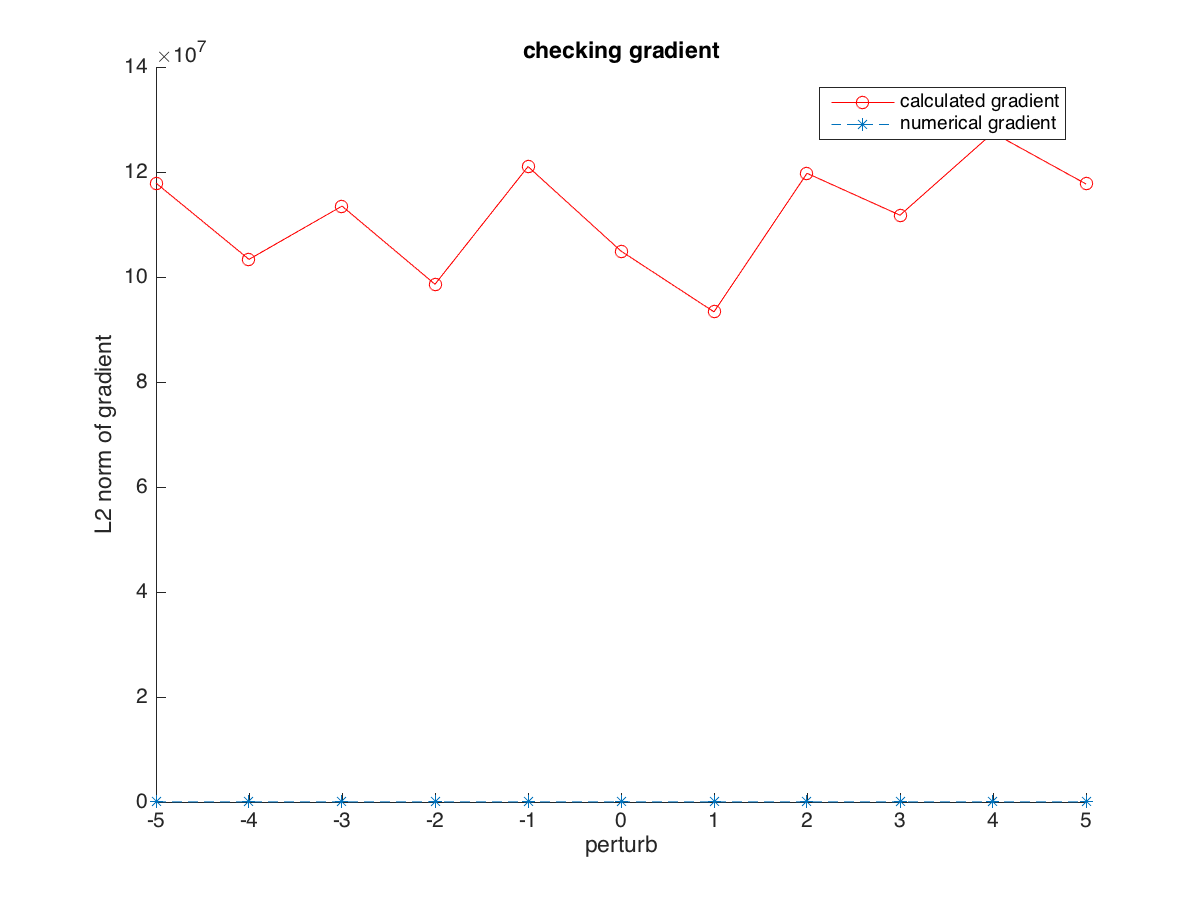
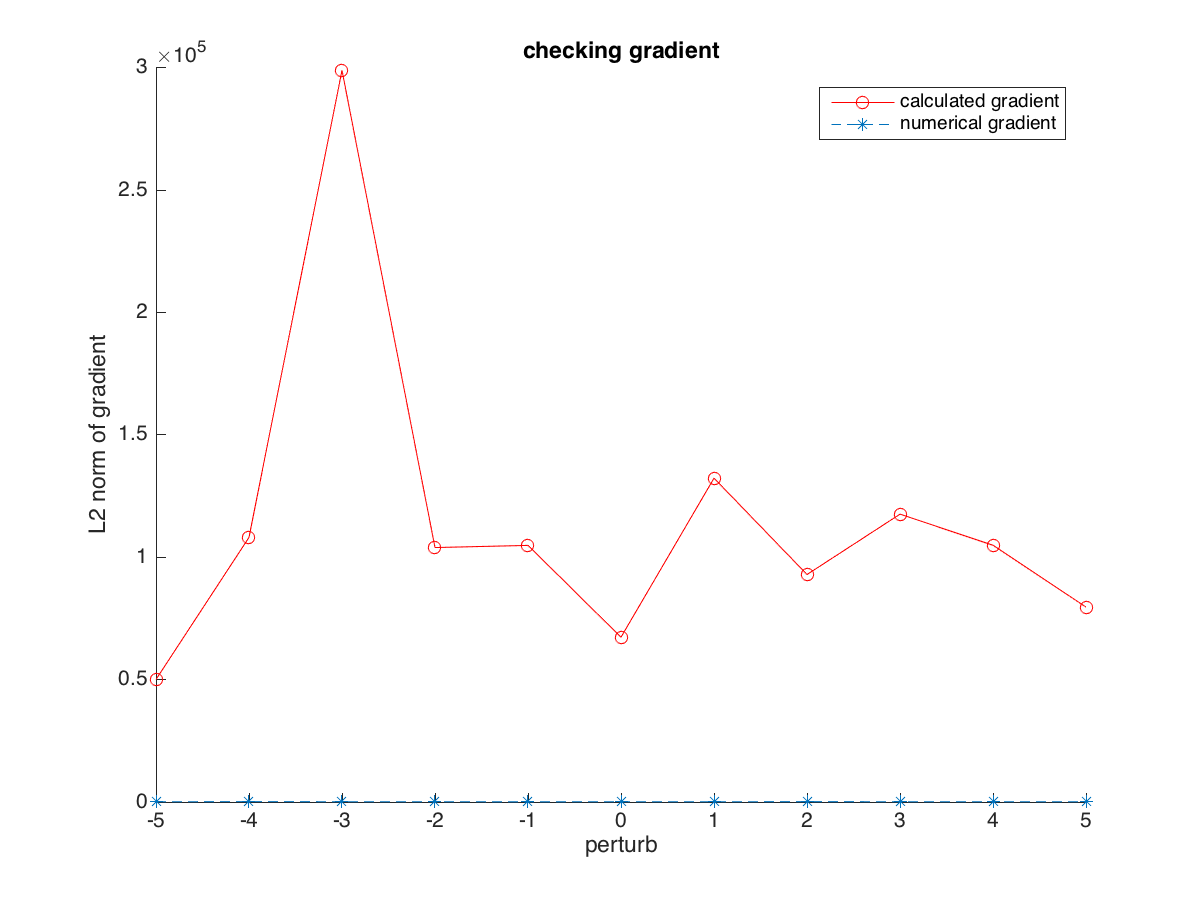
playing with svd testing error

diff --git a/SVD/svd_analysis.m b/SVD/svd_analysis.m
@@ -1,32 +1,75 @@
 %% SVD analysis
 close all; clear all;
+X = importdata('nonnormalized_collected_reviews.csv',',');
 
-X = importdata('small_collected_reviews.csv',',');
+% ---- SET PARAMETERS HERE ---- %
+K = 75;
+params.max_iterations = 1200;
+params.threshold = 1e-4;
+params.step_size = 5e-3;
+params.batch_size = 50;
 
 % strip any reviewers who didn't have any beers reviewed in this set
 to_remove = sum(~isnan(X.data),2) == 0;
-X.data(to_remove,:) = []
+X.data(to_remove,:) = [];
+fprintf('%d reviewers were removed because they lacked any reviews in this set.\n',...
+    sum(to_remove));
 
-K = 100;
-d = size(X.data,2);
-n = size(X.data,1);
+holdout_users = 10;
+Xholdout = X.data(1:holdout_users,:);
+X.data(end+holdout_users:end,:) = [];
 
-% [U,S,V] = svds(X.data,K);
+% get test points
+test_pcent = .2;
+test_mask = ~isnan(X.data) .* (rand(size(X.data,1),size(X.data,2)) < test_pcent);
 
-init_lim = 1;
+Xtrain = ~test_mask .* X.data;
+Xtrain(test_mask == 1) = NaN;
+Xtest = test_mask .* X.data;
+Xtest(~test_mask == 1) = NaN;
+
+% remove users who don't have both testing and training data
+to_remove_cumulative = (sum(~isnan(Xtrain),2) == 0) | ...
+                       (sum(~isnan(Xtest),2) == 0);
+Xtrain(to_remove_cumulative,:) = [];
+Xtest(to_remove_cumulative,:) = [];
+test_mask(to_remove_cumulative,:) = [];
+fprintf('%d more reviewers were removed b/c they did not have enough test and training reviews.\n',...
+    sum(to_remove_cumulative));
+
+% Now execute SVD
+d = size(Xtrain,2);
+n = size(Xtrain,1);
+
+init_lim = .005;
 %initialize the parameter to some small random value     
 svd.U = unifrnd( -init_lim, init_lim, [n, K]); 
 svd.V = unifrnd( -init_lim, init_lim, [d, K]);
 
-% set parameters
-params.max_iterations = 50;
-params.threshold = 1e-3;
-params.step_size = 1e-8;
-params.batch_size = 10;
+% train and optimize
+[mse, best_UV] = svd_train(Xtrain, svd, params);
 
-[mse, best_UV] = svd_train(X.data, svd, params);
+figure();
+plot(mse,'rx');
+xlabel('iteration');
+ylabel('MSE');
+title_str = sprintf('n = %d, d = %d\nEnd MSE: %.4f -- %d iterations\n|U| = %.1f, |V| = %.1f',...
+    n,d,mse(end),length(mse),norm(best_UV.U),norm(best_UV.V));
+title(title_str);
 
+print -dpng 'figures/non_normal_svd_training_gd'
 
+%% now test U and V
+Xtest(isnan(Xtest)) = 0;
+predictions = best_UV.U * best_UV.V';
+user_errors = sum( (test_mask .* (Xtest - predictions)).^2,2) ./ ...
+    sum(test_mask,2);
+test_error = mean(user_errors);
+fprintf('Testing error is %.4f\n',test_error);
+
+% --- predict for holdout data set and get error --- 
+%holdout_error = svd_predict_and_test(Xtest,best_UV.V);
+%fprintf('Holdout error is %.4f\n',holdout_error)
 
 
 

diff --git a/data_explore.py b/data_explore.py
@@ -1,15 +1,19 @@
 
 
 import pandas as pd
+import pdb
 
+
+# ---- CONSTANTS ------------------------------------------------------------ #
+TRAINING_SPLIT_DEFAULT = .2
 SCORE_THRESHOLD = 3
+
+# ---- FILE NAMES ----------------------------------------------------------- #
 INPUT_CSV = "data/beer_reviews.csv"
 OUTPUT_SIMILARITY_MATRIX = "similarity_matrix.csv"
 COLLECTED_REVIEWS_MATRIX = "collected_reviews.csv"
 TESTING_COLLECTED_REVIEWS = "testing_reviews.csv"
-TRAINING_SPLIT_DEFAULT = .2
 OUTPUT_BEER_NAME_ID_LOOKUP = "beer_name_id_lookup.csv"
-
 
 pd.set_option("display.width", 1000)
 pd.set_option('display.max_rows', 500)
@@ -94,7 +98,8 @@ class DrinkSmart:
 
     # ---- Testing / Training sets ------------------------------------------ #
     #def split_collected_reviews(self, train_percentage):
-        # should split apart 1 - train_percentage of the collected reviews matrix for testing
+        # should split apart 1 - train_percentage of the collected reviews 
+        # matrix for testing
 
 
     # ---- Normalization ---------------------------------------------------- #
@@ -260,13 +265,13 @@ if __name__ == "__main__":
     ds = DrinkSmart()
     print("---- Overall Dataset ----------")
     ds.calculate_summary_statistics()
-    ds.filter_on_beer_reviewer_counts(1000, 200)
+    ds.filter_on_beer_reviewer_counts(800, 100)
     print("---- Filtered Datset --------- ")
     ds.calculate_summary_statistics()
-    print("Normalizing all reviews...")
-    ds.normalize_all_reviews()
+    #print("Normalizing all reviews...")
+    #ds.normalize_all_reviews()
     print("pivoting reviews to get collected reviews")
-    ds.pivot_reviews(save_to_csv=True, file_name='small_collected_reviews.csv')
+    ds.pivot_reviews(column_name='review_overall',save_to_csv=True, file_name='nonnormalized_collected_reviews.csv')
 
     #print("Building beer-by-beer similarity matrix...")
     #ds.build_similarity_matrix()

diff --git a/SVD/svd_train.m b/SVD/svd_train.m
@@ -1,4 +1,4 @@
-function [mse, grad] = svd_train(X, grad_0, params)
+function [mse, svd] = svd_train(X, grad_0, params)
 %% Uses gradient descent to find optimal U and V for SVD
 % INPUTS:
 %   X - n x d
@@ -34,19 +34,23 @@ for iter = 1:params.max_iterations
         [~, grad] = svd_error(Xbatch,svd_batch);
         svd.U(batch,:) = svd.U(batch,:) - (params.step_size / params.batch_size) * grad.U;        
     end
-    svd.V = svd.V - (params.step_size / params.batch_size) * grad.V;      
+    svd.V = svd.V - (params.step_size) * grad.V;      
     
     % decrease the step size -- remove
     % params.step_size = params.step_size / iter  
+%     if iter == 200
+%         params.step_size = params.step_size * 10;
+%         fprintf('increasing step size to %f\n',params.step_size)
+%     end
     
     % keep track of the MSE across iterations
     mse = [mse, svd_error(X,svd)];      
-    fprintf('svd_train: iter %d, mse %.4G\n', iter, mse(end));
+    fprintf('svd_train: iter %d, mse %.4f\n', iter, mse(end));
        
     % threshold = 1e-3;
     % stopping criterion
     if (length(mse) > 1 && max(abs(mse(end) - mse(end-1))) < params.threshold) || ...
-            (length(mse) > 1 && (mse(end) - mse(end-1) > params.threshold))
+            (length(mse) > 1 && (mse(end) - mse(end-1) > 0))
         fprintf('svd_train: reached stopping threshold at iteration %d for with MSE %.4G\n',...
             iter,mse(end))
         break;
@@ -55,5 +59,6 @@ for iter = 1:params.max_iterations
 end
 fprintf('stopping now.\nIterations: %d\nMagnitude of svd.U: %f\nMagnitude of svd.V: %d\n',...
     iter, norm(svd.U), norm(svd.V));
+
 return;
 end

diff --git a/SVD/gradient_descent_checker.m b/SVD/gradient_descent_checker.m
@@ -9,8 +9,13 @@ d = size(X, 2)
 K = 5
 
 small_n = 15;
-if small_n < n
-    small_n = n;
+if small_n > n
+    small_n = n
+end
+
+small_d = 10;
+if small_d > d
+    small_d = d
 end
 
 %% Checking your gradient: compare your gradient with the numerical gradient
@@ -19,16 +24,18 @@ grd = []; grd2 = [];
 for i = 1:length(perturb)
     % to make sure your gradient is correct,you can compare your gradient calculating with numerical gradient
     small_i = randperm(size(X,1), small_n);
-    small_x = X(small_i, :); 
+    small_x = X(small_i, 1:small_d); 
     %Ycheck = Ytrain(rndIdx);
 
     fun=@(th)(svd_error(small_x, th)); 
     svd.U = unifrnd( -6, 6, [small_n, K])  
-    svd.V = unifrnd( -6, 6, [d, K])
+    svd.V = unifrnd( -6, 6, [small_d, K])
     
     [mse, grad] = fun(svd); 
     grd = [grd; [grad.U(:)', grad.V(:)']];
     
+    small_x(isnan(small_x)) = 0;
+    fun=@(th)(svd_error(small_x, th));
     [du, dv] = numerical_gradient(fun, svd);  
     grd2 = [grd2; [du(:)', dv(:)']]; % evaluate the numerical gradient
     i

diff --git a/SVD/svd_reg_error.m b/SVD/svd_reg_error.m
@@ -1,9 +1,11 @@
-function [mse, grad] = svd_error(X, svd)
+function [mse, grad] = svd_reg_error(X, svd)
 %% calculates error and gradient of SVD for given 
 % INPUTS:
 %   X - n x d (users by items)
 %   svd.U - n x k 
 %   svd.V - d x k
+%   svd.k.U - 1 x 1
+%   svd.k_V - 1 x 1
 % OUTPUTS:
 %   mse - 1 x 1 mean squared error + L2 regularization of U and V
 %   grad.U - n x k 
@@ -19,8 +21,7 @@ user_observation_count = sum(I,2);
 predictions = svd.U * svd.V';
 
 user_mse = sum( (I .* (X - predictions)).^2, 2) ./ user_observation_count;
-mse = mean(user_mse);
+mse = mean(user_mse) + svd.k_U * norm(svd.U) + svd.k_V * norm(svd.V);
 
-grad.U = -2 * I .* (X - predictions) * svd.V;
-grad.V = -2 * I' .* (X - predictions)' * svd.U;
-
+grad.U = -2 * I .* (X - predictions) * svd.V + 2 * svd.k_U * svd.U;
+grad.V = -2 * I' .* (X - predictions)' * svd.U + 2 * svd.k_V * svd.V;

diff --git a/SVD/svd_predict_and_test.m b/SVD/svd_predict_and_test.m
@@ -1,0 +1,16 @@
+function [mse] = svd_predict_and_test(Xtest, V)
+% INPUTS
+%   Xtest   - n x d
+%   V       - K x d
+%
+% OUTPUTS
+%   mse     - 1 x 1 
+
+test_I = ~isnan(Xtest);
+Xtest(isnan(Xtest)) = 0;
+U_test = test_I .* Xtest * V / (V' * V);
+test_predictions = U_test * V';
+test_counts = sum(test_I,2);
+user_errors = sum( test_I .* (Xtest - test_predictions).^2,2) ./ test_counts;
+mse = mean(user_errors);
+end
